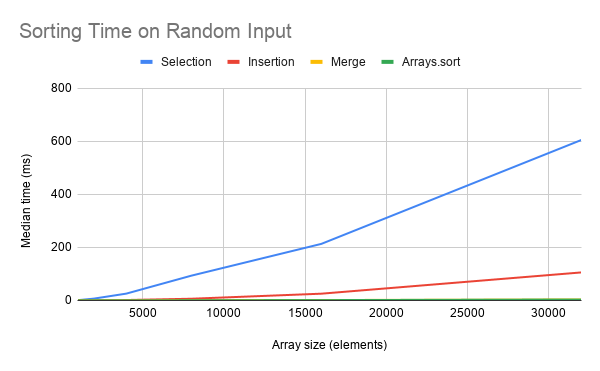
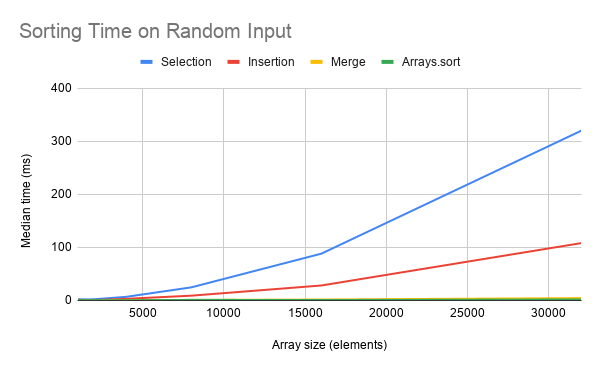
Align report and chart with CSV data

diff --git a/a3-sorting/report.md b/a3-sorting/report.md
@@ -5,23 +5,23 @@ Oscar Zhu — ICS4U
 ## Question
 
 How do array size and input order affect the comparison counts and running times of selection sort, insertion sort,
-merge sort, and Java's Arrays.sort? I investigated whether measured growth agreed with the expected complexity of each
-algorithm.
+merge sort, and Java's Arrays.sort? I compared measured results with the expected growth of each algorithm.
 
 ## Method
 
 I used a 2023 15-inch MacBook Air with an Apple M2 chip, 8 GB of RAM, macOS, and Temurin JDK 25. The array sizes were
-1,000, 2,000, 4,000, 8,000, 16,000, and 32,000. Each size was tested with random, sorted, and reversed integer arrays.
-Random values came from Java's Random using seed 42 and a bound of 1,000,000. Sorted arrays contained values from 0 to
-n - 1; reversed arrays contained n down to 1.
+1,000, 2,000, 4,000, 8,000, 16,000, and 32,000. Each size had random, sorted, and reversed integer inputs. Random arrays
+used seed 42 and values below 1,000,000. Sorted arrays contained 0 through n - 1; reversed arrays contained n through 1.
 
-Before measuring, I warmed up each algorithm using three random arrays of 5,000 elements. Each timed combination ran
-five times using fresh copies of the same original array. I recorded the median in milliseconds using System.nanoTime
-(). Array generation and copying occurred before timing; the sorted-order check occurred afterward.
+Each combination was timed five times using fresh copies of the same original array. I recorded the median in
+milliseconds using System.nanoTime (). Array generation and copying occurred before timing, and the sorted-order check
+occurred afterward. The submitted experiment program also includes three warm-up runs per algorithm using 5,000-element
+random arrays.
 
-For comparison counts, I reset Sorts.comparisons before a separate sorting run. The counter recorded integer-value
-comparisons, including comparisons returning false, but excluded index checks. Arrays.sort's comparison field was blank
-because I did not measure its internal comparisons. The handwritten sorts retained their counters during timing.
+For comparison counts, I reset Sorts.comparisons before a separate sorting run. The counter measured comparisons between
+integer values, including comparisons returning false, but excluded index checks. Arrays.sort comparisons were not
+measured and appear as NA in the CSV. The handwritten algorithms also updated their counters during timing, adding
+overhead to their measurements.
 
 ## Results
 
@@ -29,30 +29,28 @@ because I did not measure its internal comparisons. The handwritten sorts retain
 
 |     n | Selection | Insertion |  Merge | Arrays.sort |
 |------:|----------:|----------:|-------:|------------:|
-|  1000 |    499500 |    253081 |   8688 |           — |
-|  2000 |   1999000 |    996913 |  19406 |           — |
-|  4000 |   7998000 |   3971946 |  42818 |           — |
-|  8000 |  31996000 |  16226374 |  93676 |           — |
-| 16000 | 127992000 |  64542397 | 203349 |           — |
-| 32000 | 511984000 | 256431056 | 438593 |           — |
-
-Arrays.sort comparisons were not measured.
+|  1000 |    499500 |    253081 |   8688 |          NA |
+|  2000 |   1999000 |    996913 |  19406 |          NA |
+|  4000 |   7998000 |   3971946 |  42818 |          NA |
+|  8000 |  31996000 |  16226374 |  93676 |          NA |
+| 16000 | 127992000 |  64542397 | 203349 |          NA |
+| 32000 | 511984000 | 256431056 | 438593 |          NA |
 
 ### Median times and doubling ratios on random input
 
-Times are in milliseconds. Each ratio divides the current time by the time at half the array size, using the rounded CSV
-values.
+Times are in milliseconds. Each ratio divides the current time by the time at half the array size. Times are displayed
+to three decimal places; ratios use the six-decimal CSV values.
 
 |     n | Selection ms | Ratio | Insertion ms | Ratio | Merge ms | Ratio | Arrays.sort ms | Ratio |
 |------:|-------------:|------:|-------------:|------:|---------:|------:|---------------:|------:|
-|  1000 |        0.896 |     — |        0.103 |     — |    0.054 |     — |          0.043 |     — |
-|  2000 |        6.852 |  7.65 |        0.403 |  3.91 |    0.143 |  2.65 |          0.126 |  2.93 |
-|  4000 |       25.760 |  3.76 |        1.578 |  3.92 |    0.354 |  2.48 |          0.273 |  2.17 |
-|  8000 |       93.433 |  3.63 |        6.455 |  4.09 |    0.703 |  1.99 |          0.577 |  2.11 |
-| 16000 |      213.328 |  2.28 |       25.510 |  3.95 |    1.588 |  2.26 |          1.318 |  2.28 |
-| 32000 |      605.202 |  2.84 |      105.711 |  4.14 |    3.651 |  2.30 |          3.337 |  2.53 |
+|  1000 |        1.923 |     — |        1.338 |     — |    0.207 |     — |          0.780 |     — |
+|  2000 |        2.178 |  1.13 |        0.483 |  0.36 |    0.202 |  0.98 |          0.540 |  0.69 |
+|  4000 |        6.839 |  3.14 |        3.091 |  6.40 |    0.513 |  2.53 |          0.341 |  0.63 |
+|  8000 |       24.685 |  3.61 |        8.983 |  2.91 |    1.005 |  1.96 |          1.044 |  3.06 |
+| 16000 |       88.213 |  3.57 |       28.217 |  3.14 |    1.790 |  1.78 |          0.817 |  0.78 |
+| 32000 |      320.181 |  3.63 |      108.153 |  3.83 |    4.374 |  2.44 |          1.843 |  2.25 |
 
-![Time against n, random input](chart.png)
+![Median sorting time on random input](chart.png)
 
 Complete measurements for all input types are in [results.csv](results.csv).
 
@@ -60,78 +58,80 @@ Complete measurements for all input types are in [results.csv](results.csv).
 
 ### 1. Doubling ratios
 
-Insertion sort's time ratios stayed between 3.91 and 4.14, close to four. This supports O (n²) average-case growth:
-doubling n approximately quadruples the work.
+Selection sort's final three ratios were 3.61, 3.57, and 3.63. They approached four without reaching it, broadly
+supporting quadratic growth. Its comparison counts approximately quadrupled with each doubling, providing clearer
+evidence than elapsed time.
 
-Selection sort's ratios ranged from 2.28 to 7.65 and did not settle near four. However, its comparisons increased from
-127,992,000 at n = 16,000 to 511,984,000 at n = 32,000, almost exactly fourfold. Its counts provide stronger evidence of
-quadratic growth than these variable timings.
+Insertion sort's ratios varied from 0.36 to 6.40. Its final ratio, 3.83, was close to four, but the measurements did not
+consistently settle near that value. Random-input comparison counts nevertheless grew approximately fourfold, supporting
+O (n²) average-case growth.
 
-Merge sort's final two ratios were 2.26 and 2.30; Arrays.sort's were 2.28 and 2.53. These are broadly consistent with O
-(n log n), which predicts slightly more than twice the work when n doubles. The measurements support this pattern
-without proving complexity from timing alone.
+Merge sort's final ratios were 1.96, 1.78, and 2.44. Arrays.sort's were 3.06, 0.78, and 2.25. Neither sequence settled
+consistently. Their final ratios were compatible with growth somewhat above two, as expected for n log n, but timing
+alone cannot establish a complexity class.
 
 ### 2. Counts against the formulas
 
 Selection sort matched `n(n - 1) / 2` exactly: 499,500 comparisons at n = 1,000 and 511,984,000 at n = 32,000. It scans
-the entire remaining section regardless of input order.
+the remaining unsorted section regardless of input order.
 
 For merge sort, `n log₂(n)` gives approximately 9,966 at n = 1,000 and 478,905 at n = 32,000. The measured counts, 8,688
-and 438,593, were approximately 87.2% and 91.6% of those estimates. The expression describes growth rather than an exact
-count. When one side of a merge is exhausted, copying the remaining values requires no further value comparisons.
+and 438,593, were approximately 87.2% and 91.6% of those estimates. The expression describes the growth scale, not an
+exact count. Once one side of a merge is exhausted, copying the remaining values requires no further value comparisons.
 
 ### 3. Insertion sort's best and worst cases
 
 At n = 32,000, insertion sort made 31,999 comparisons on sorted input, 256,431,056 on random input, and 511,984,000 on
 reversed input.
 
-On sorted input, each value after the first immediately fails the greater-than test, requiring no shifts. This produces
-n - 1 comparisons and O (n) best-case growth. On reversed input, each new value moves past every preceding value,
-producing `n(n - 1) / 2` comparisons and O (n²) growth. Random input required about half the reversed-input comparisons
-because values generally moved past only part of the sorted section.
+On sorted input, each value immediately fails the greater-than test, requiring no shifts. This produces n - 1
+comparisons and O (n) best-case growth. On reversed input, each value moves past every preceding value, producing
+`n(n - 1) / 2` comparisons and O (n²) growth. Random input required about half the reversed-input comparisons because
+values generally moved past only part of the sorted section.
 
 ### 4. Same Big-O, different times
 
-On random input at n = 32,000, insertion sort took 105.711 ms versus selection sort's 605.202 ms. Selection therefore
-took about 5.72 times as long, despite both having O (n²) average-case growth.
+At n = 32,000 on random input, selection sort took 320.181 ms and insertion sort took 108.153 ms. Selection therefore
+took about 2.96 times as long, although both have quadratic average-case growth.
 
-Selection always scans the remaining section, while insertion stops at the correct position. Insertion made 256,431,056
-comparisons versus selection's 511,984,000. Their different comparison counts, memory operations, and implementation
-costs explain why equal Big-O classifications do not imply equal times.
+Selection always scans the remaining section. Insertion stops when it finds the correct position. Insertion made
+256,431,056 comparisons versus selection's 511,984,000. Different comparison counts, memory operations, and
+implementation costs explain why equal Big-O classifications do not imply equal times.
 
 ### 5. Arrays.sort compared with merge sort
 
-Arrays.sort was faster at every tested random-input size. At n = 32,000, its 3.337 ms was approximately 8.6% below merge
-sort's 3.651 ms.
+Arrays.sort was faster at 4,000, 16,000, and 32,000 random elements, while merge sort was faster at 1,000, 2,000, and
+8,000. At n = 32,000, Arrays.sort took 1.843 ms versus merge's 4.374 ms, approximately 57.9% less time.
 
-Algorithms with the same growth class can have different constant costs. A library implementation can use specialized
-strategies to reduce overhead. My merge sort creates and copies temporary arrays and updates a comparison counter, which
-Arrays.sort does not update. These measurements therefore compare implementations, not just abstract algorithms.
+A library implementation can use specialized strategies to reduce overhead. My merge sort allocates and copies temporary
+arrays and updates a comparison counter. These costs help explain the difference, although the experiment does not
+isolate their individual effects.
 
 ## Limits
 
-Selection sort's random-input time increased from 0.896 ms at n = 1,000 to 6.852 ms at n = 2,000, a ratio of 7.65 rather
-than approximately four. Background activity, processor conditions, and Java compilation may affect timings. Warm-up
-runs and the median of five trials reduced variation but could not eliminate it.
+One irregularity was insertion sort's random-input time falling from 1.338208 ms at n = 1,000 to 0.482875 ms at n =
+2,000. A larger array taking less time suggests substantial timing variation, potentially involving compilation or
+background activity. More warm-up runs and repeated benchmark sessions would improve confidence.
 
-A second irregularity appeared in Arrays.sort's sorted-input times: doubling n from 4,000 to 8,000 reduced time from
-0.049 ms to 0.046 ms. This small difference is not convincing evidence that larger arrays sort faster. More repetitions
-would improve confidence in such short measurements.
+Another irregularity was Arrays.sort's reversed-input time falling from 0.118666 ms at n = 4,000 to 0.008375 ms at n =
+8,000. This does not establish that larger arrays sort faster. Measuring batches of short sorts and reporting variation
+across repeated sessions would make such small timings more reliable.
 
-Only seed 42 was used, so several seeds would provide broader evidence. Counter overhead also limits fairness when
-comparing handwritten algorithms with Arrays.sort.
+Only seed 42 was used. Several seeds would provide broader evidence. Counter overhead also limits fairness when
+comparing handwritten sorts with Arrays.sort. Separate timing versions without counters would improve that comparison.
 
 ## Recommendation
 
-For large random arrays, I would use Arrays.sort: at n = 32,000 it took 3.337 ms, versus 3.651 ms for merge, 105.711 ms
-for insertion, and 605.202 ms for selection. Among my handwritten sorts, I would choose merge for large random inputs.
-Insertion was particularly effective on sorted input: 0.048 ms at n = 32,000 versus merge's 1.681 ms.
+For large random arrays, I would choose Arrays.sort: at n = 32,000 it took 1.843 ms, compared with 4.374 ms for merge,
+108.153 ms for insertion, and 320.181 ms for selection. Among my handwritten algorithms, merge was strongest for large
+random inputs. For sorted input, insertion was particularly effective: 0.051375 ms versus merge's 1.669459 ms at n =
+32,000.
 
 My first prediction was correct: selection made 499,500 comparisons at n = 1,000 for every input order.
 
 My second prediction was correct among the handwritten sorts. At n = 32,000 on sorted input, insertion was fastest at
-0.048 ms and selection slowest at 429.196 ms.
+0.051375 ms and selection slowest at 318.022791 ms.
 
-My third prediction was only partly supported by timing. Selection's last two random-input ratios were 2.28 and 2.84
-rather than four, although its comparison counts approximately quadrupled. Merge's ratios of 2.26 and 2.30 supported my
-prediction of slightly more than double the time.
+My third prediction received mixed timing support. Selection's last ratio was 3.63 rather than four, while its
+comparison counts approximately quadrupled. Merge's last ratio was 2.44, supporting slightly more than double the time
+for that interval, although earlier ratios varied.
